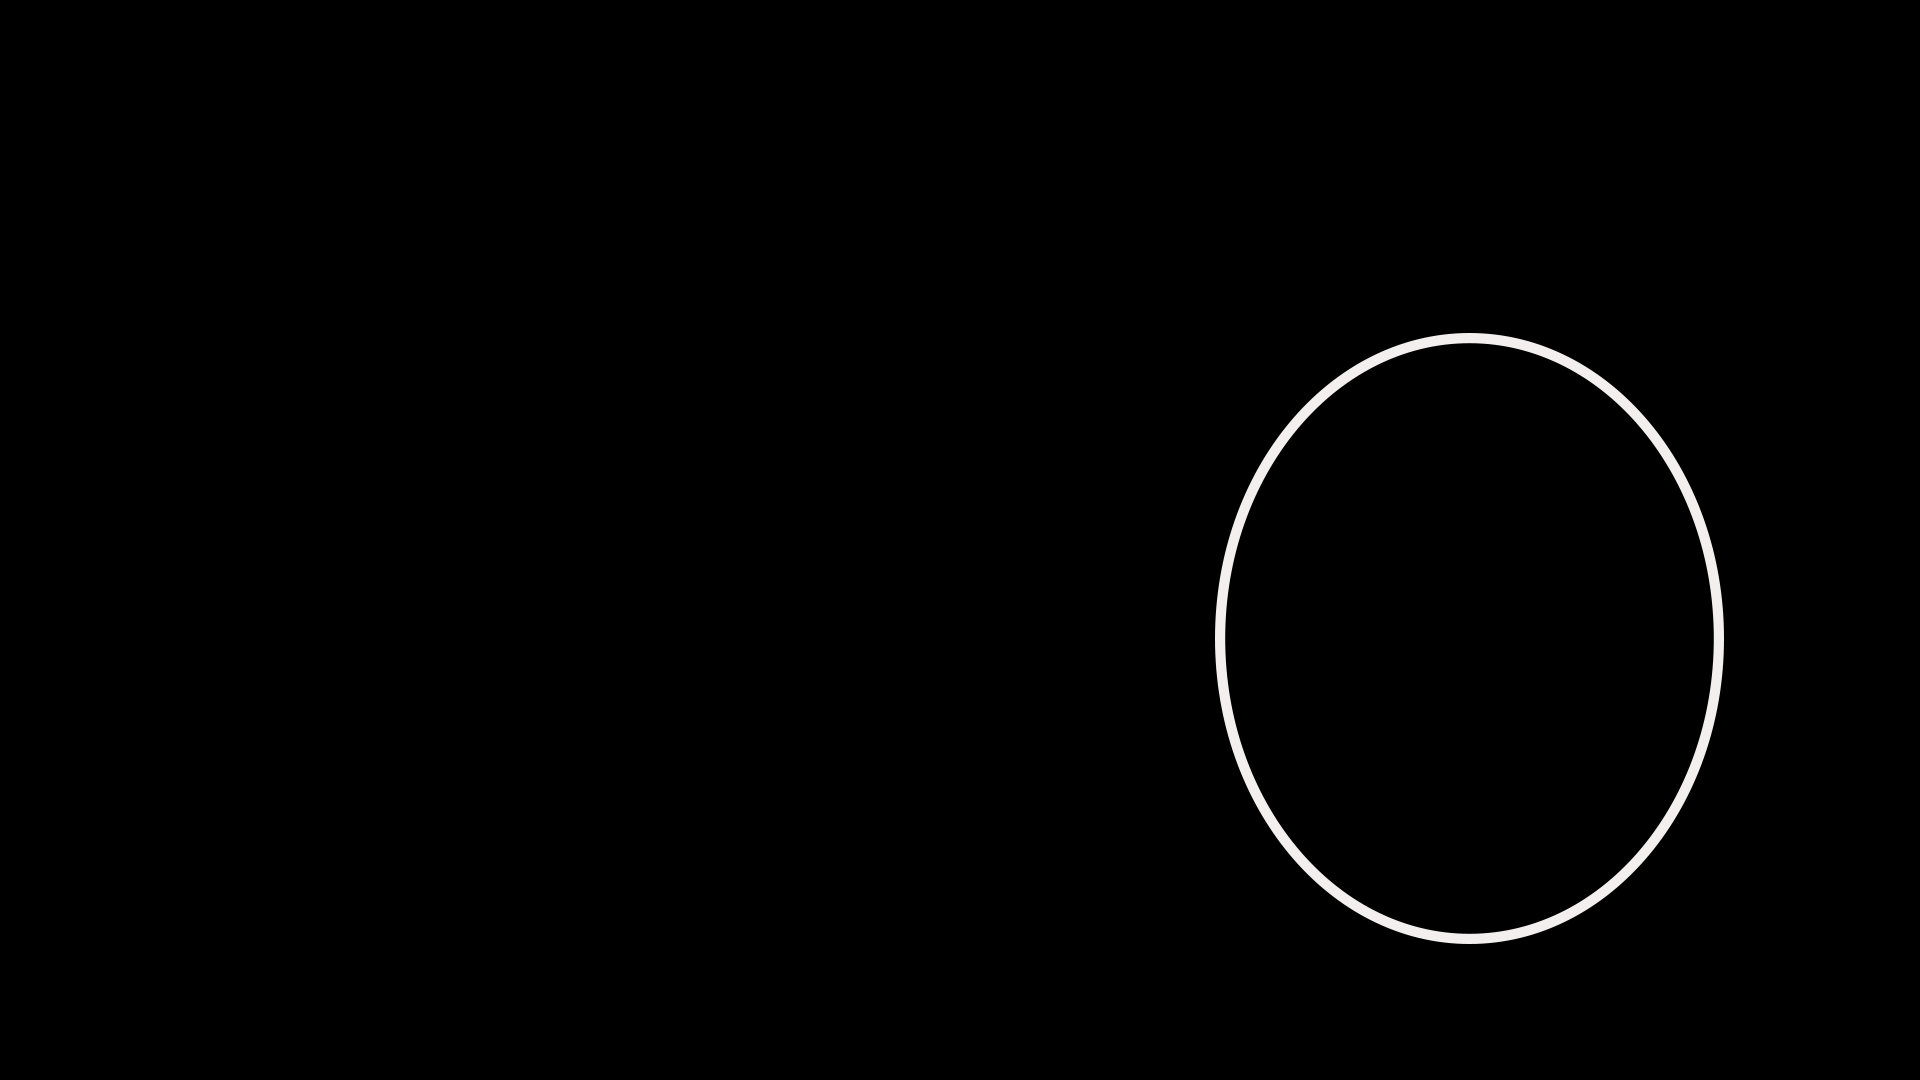
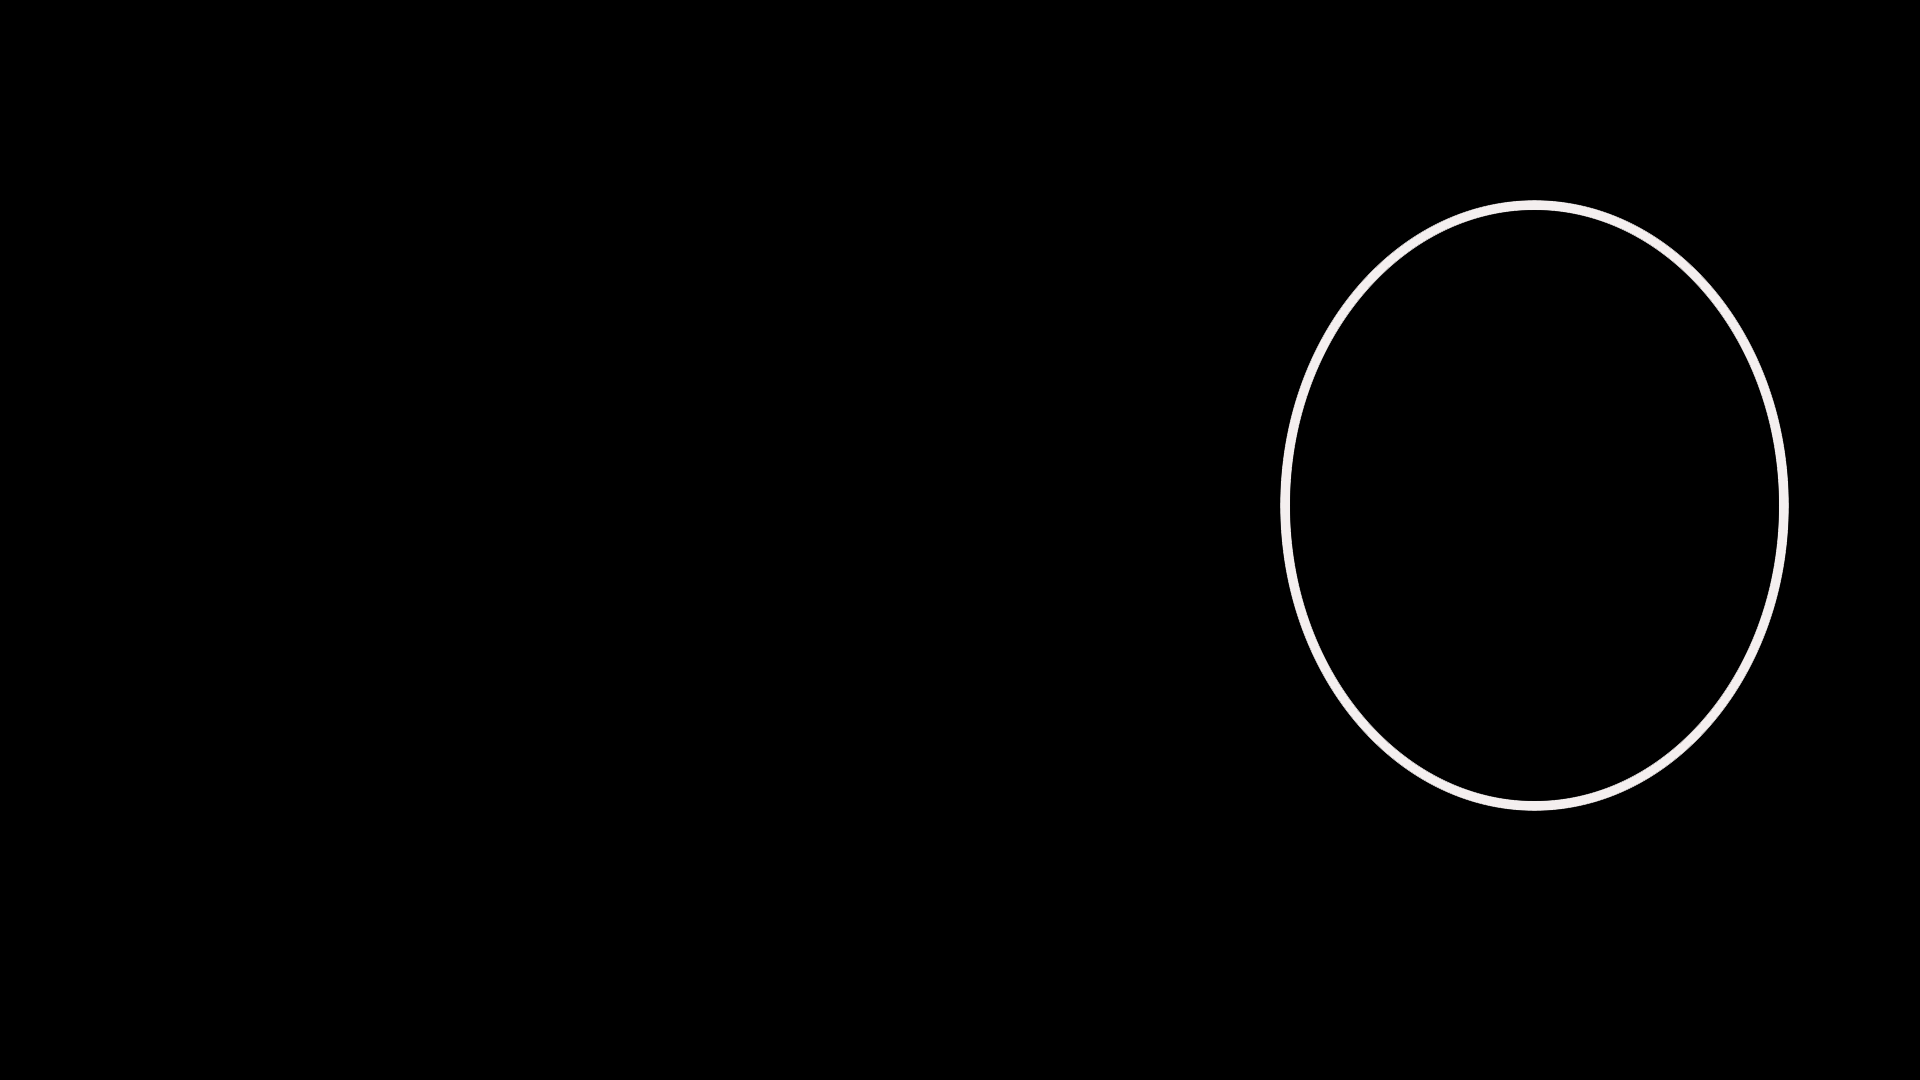
changing approaches

diff --git a/src/styles/_07bulb.scss b/src/styles/_07bulb.scss
@@ -1,98 +1,15 @@
 #bulb {
     position: fixed;
     z-index: -1;
-    max-width: 100%;
-    max-height: 100%;
+    width: 100%;
+    height: 100%;
     object-fit: cover;
-    animation: fadein 2s;
-    -moz-animation: fadein 2s;
-    /* Firefox */
-    -webkit-animation: fadein 2s;
-    /* Safari and Chrome */
-    -o-animation: fadein 2s;
-    /* Opera */
-}
-
-.zero:before {
-    content: url('../assets/img/bulb0.png'); // @include media("<=tablet") {
-    //     content: url('../assets/img/bulb1.png');
-    //     height: auto;
-    //     width: auto;
-    // }
-}
-
-.one:before {
-    content: url('../assets/img/bulb1.png'); // @include media("<=tablet") {
-    //     content: url('../assets/img/bulb1.png');
-    //     height: auto;
-    //     width: auto;
-    // }
-}
-
-.two:before {
-    content: url('../assets/img/bulb2.png'); // @include media("<=tablet") {
-    //     content: url('../assets/img/bulb1.png');
-    //     height: auto;
-    //     width: auto;
-    // }
-}
-
-.three:before {
-    content: url('../assets/img/bulb3.png'); // @include media("<=tablet") {
-    //     content: url('../assets/img/bulb1.png');
-    //     height: auto;
-    //     width: auto;
-    // }
-}
-
-.four:before {
-    content: url('../assets/img/bulb4.png'); // @include media("<=tablet") {
-    //     content: url('../assets/img/bulb1.png');
-    //     height: auto;
-    //     width: auto;
-    // }
-}
-
-// <img id="img0" src="./assets/img/bulb0.png">
-// <img id="img1" src="./assets/img/bulb1.png">
-// <img id="img2" src="./assets/img/bulb2.png">
-// <img id="img3" src="./assets/img/bulb3.png">
-// <img id="img4" src="./assets/img/bulb4.png">
-@keyframes fadein {
-    from {
-        opacity: 0;
-    }
-    to {
-        opacity: 1;
-    }
-}
-
-@-moz-keyframes fadein {
-    /* Firefox */
-    from {
-        opacity: 0;
-    }
-    to {
-        opacity: 1;
-    }
-}
-
-@-webkit-keyframes fadein {
-    /* Safari and Chrome */
-    from {
-        opacity: 0;
-    }
-    to {
-        opacity: 1;
-    }
-}
-
-@-o-keyframes fadein {
-    /* Opera */
-    from {
-        opacity: 0;
-    }
-    to {
-        opacity: 1;
+    background-attachment: fixed;
+    background-image: url('../assets/img/bulb0.png');
+    img {
+        width: 100%;
+        height: 100%;
+        object-fit: cover;
+        position: fixed;
     }
 }

diff --git a/src/scripts/backgroundChange.js b/src/scripts/backgroundChange.js
@@ -9,13 +9,13 @@ const classPicker = (header) => {
 		return './assets/img/bulb0.png'
 		break
 	case 'ProjectsA':
-		return './assets/img/bulb2.png'
+		return './assets/img/bulb1.png'
 		break
 	case 'SkillsA':
-		return './assets/img/bulb3.png'
+		return './assets/img/bulb2.png'
 		break
 	case 'ContactA':
-		return './assets/img/bulb4.png'
+		return './assets/img/bulb3.png'
 		break
 	default:
 		console.log(`backgroundChange script attempting to pass ${header} to the add switch statement`)
@@ -37,7 +37,7 @@ $.fn.viewCheck = function() {
 
 const backgroundChange = () => {
 	let scrollTimeout
-	const throttle = 1000
+	const throttle = 500
 	let lastScrollTop = 0
 	// jquery timer like a reverse
 
@@ -52,14 +52,18 @@ const backgroundChange = () => {
 						// 	$(this).on('load', (function() { $(this).fadeIn()}))
 						// 	$(this).attr('src', classPicker(activeAnchor))
 						// })
-						if (st > lastScrollTop){
-							//down
-							console.log(`down; st = ${st} lastscrolltop = ${lastScrollTop}`)
-						} else {
-							//up
-							console.log(`up; st = ${st} lastscrolltop = ${lastScrollTop}`)
-						}
-						lastScrollTop = st
+
+						$('#bulb').attr('src', classPicker(activeAnchor)).fadeIn(2000)
+
+
+						// if (st > lastScrollTop){
+						// 	//down
+						// 	console.log(`down; st = ${st} lastscrolltop = ${lastScrollTop}`)
+						// } else {
+						// 	//up
+						// 	console.log(`up; st = ${st} lastscrolltop = ${lastScrollTop}`)
+						// }
+						// lastScrollTop = st
 					}
 				})
 				scrollTimeout = null

diff --git a/src/styles/styles.css b/src/styles/styles.css
@@ -535,57 +535,15 @@ footer {
 #bulb {
   position: fixed;
   z-index: -1;
-  max-width: 100%;
-  max-height: 100%;
+  width: 100%;
+  height: 100%;
   object-fit: cover;
-  animation: fadein 2s;
-  -moz-animation: fadein 2s;
-  /* Firefox */
-  -webkit-animation: fadein 2s;
-  /* Safari and Chrome */
-  -o-animation: fadein 2s;
-  /* Opera */ }
-
-.zero:before {
-  content: url("../assets/img/bulb0.png"); }
-
-.one:before {
-  content: url("../assets/img/bulb1.png"); }
-
-.two:before {
-  content: url("../assets/img/bulb2.png"); }
-
-.three:before {
-  content: url("../assets/img/bulb3.png"); }
-
-.four:before {
-  content: url("../assets/img/bulb4.png"); }
-
-@keyframes fadein {
-  from {
-    opacity: 0; }
-  to {
-    opacity: 1; } }
-
-@-moz-keyframes fadein {
-  /* Firefox */
-  from {
-    opacity: 0; }
-  to {
-    opacity: 1; } }
-
-@-webkit-keyframes fadein {
-  /* Safari and Chrome */
-  from {
-    opacity: 0; }
-  to {
-    opacity: 1; } }
-
-@-o-keyframes fadein {
-  /* Opera */
-  from {
-    opacity: 0; }
-  to {
-    opacity: 1; } }
+  background-attachment: fixed;
+  background-image: url("../assets/img/bulb0.png"); }
+  #bulb img {
+    width: 100%;
+    height: 100%;
+    object-fit: cover;
+    position: fixed; }
 
 /*# sourceMappingURL=styles.css.map */

diff --git a/src/index.html b/src/index.html
@@ -40,7 +40,7 @@
     </header>
 
     <div id="bulbDiv">
-        <img id="bulb" src="./assets/img/bulb0.png" class="on">
+        <img id="bulb">
         <!-- <img id="bulb" src="./assets/img/bulb1.png" class="off">
         <img id="bulb" src="./assets/img/bulb2.png" class="off">
         <img id="bulb" src="./assets/img/bulb3.png" class="off">
